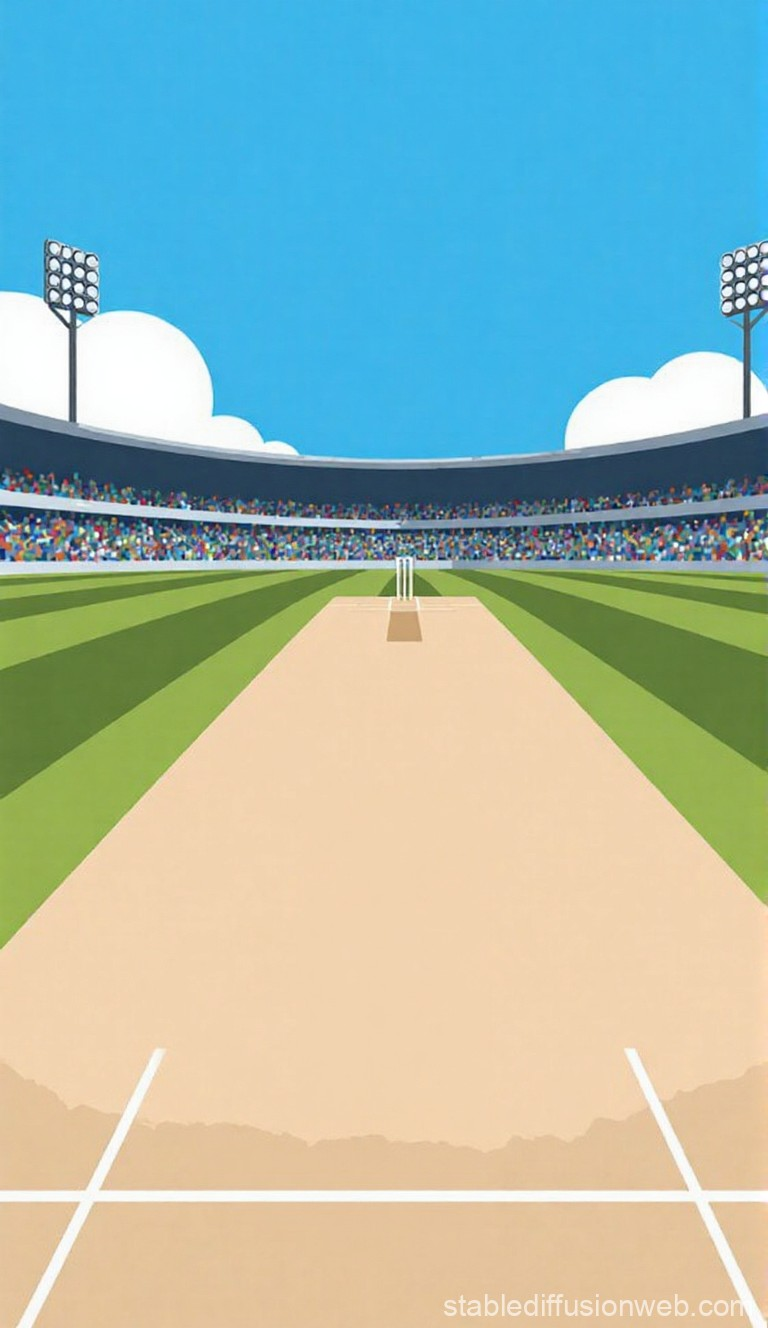
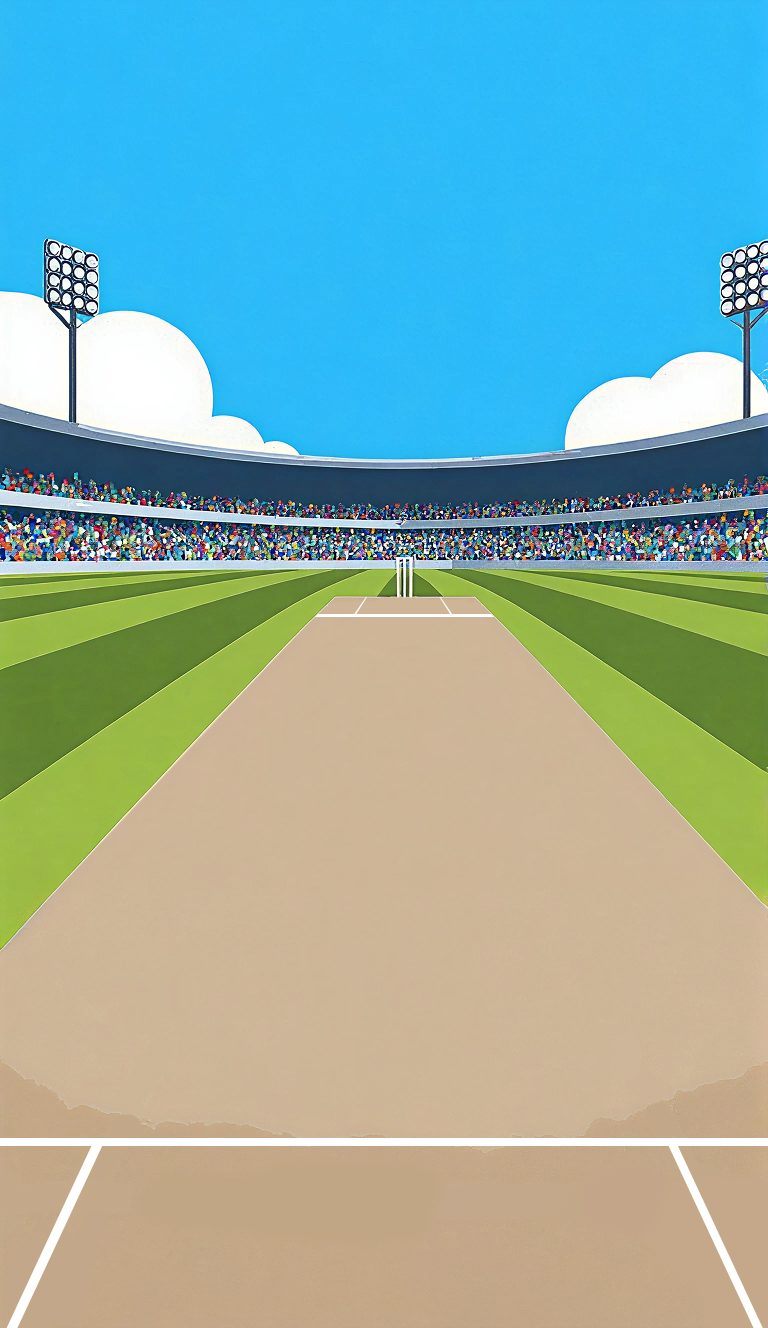
feat: added wicket animation for idle and miss

diff --git a/index.js b/index.js
@@ -26,7 +26,16 @@ class TapCricketScene extends Phaser.Scene {
       frameHeight: 600, // Estimated - adjust based on actual dimensions
     });
 
-    // this.load.image("stumps", "assets/stumps.png"); // stumps image (bottom)
+    // Load wicket sprite sheet
+    this.load.spritesheet("wicket", "assets/wicket.png", {
+      frameWidth: 540, // Half of 540 since we have 2 frames
+      frameHeight: 302,
+    });
+
+    // Debug loading
+    this.load.on("complete", () => {
+      console.log("Wicket sprite sheet loaded:", this.textures.get("wicket"));
+    });
     // this.load.image("bat", "assets/bat.png"); // bat sprite (replaced with spritesheet)
   }
 
@@ -67,7 +76,6 @@ class TapCricketScene extends Phaser.Scene {
     // Add visible batting crease line (simplified)
     try {
       this.creaseGraphics = this.add.graphics();
-      this.creaseGraphics.lineStyle(4, 0xffffff, 0.8);
       this.creaseGraphics.lineBetween(
         this.scale.width * 0.3,
         this.creaseY,
@@ -87,14 +95,55 @@ class TapCricketScene extends Phaser.Scene {
       );
     }
 
-    // Add stumps at bottom (batter's perspective) - temporary rectangle
-    this.stumps = this.add.rectangle(
-      this.scale.width / 2,
-      this.scale.height - 80,
-      40,
-      60,
-      0x8b4513
-    );
+    // Add wicket at bottom (batter's perspective)
+    // Create wicket animations with debug logging
+    try {
+      // Create idle animation
+      const idleAnim = this.anims.create({
+        key: "wicket-idle",
+        frames: this.anims.generateFrameNumbers("wicket", { start: 0, end: 0 }),
+        frameRate: 8,
+        repeat: -1,
+      });
+      console.log("Idle animation created:", idleAnim);
+
+      // Create hit animation
+      const hitAnim = this.anims.create({
+        key: "wicket-hit",
+        frames: this.anims.generateFrameNumbers("wicket", { start: 0, end: 7 }),
+        frameRate: 20,
+        repeat: 0, // Only play once
+      });
+      console.log("Hit animation created:", hitAnim);
+
+      // Log all available animations
+      console.log("All animations:", this.anims.anims.entries);
+    } catch (error) {
+      console.error("Error creating animations:", error);
+    }
+
+    // Add wicket sprite and play animation
+    this.stumps = this.add
+      .sprite(this.scale.width / 2, this.scale.height - 50, "wicket") // Adjusted Y position
+      .setScale(0.6) // Increased scale to make it more visible
+      .setDepth(2) // Set a higher depth to bring it to the front
+      .setOrigin(0.5, 0.7); // Set origin to bottom center of sprite
+
+    // Debug rectangle to show wicket bounds
+
+    console.log("Wicket position:", {
+      x: this.stumps.x,
+      y: this.stumps.y,
+      originX: this.stumps.originX,
+      originY: this.stumps.originY,
+      displayHeight: this.stumps.displayHeight,
+      displayWidth: this.stumps.displayWidth,
+    });
+
+    // For debugging - add a colored rectangle behind the wicket to check its position
+
+    // Start playing the animation
+    this.stumps.play("wicket-idle");
 
     // Add batter sprite with animations or fallback
     this.createBatter();
@@ -478,6 +527,29 @@ class TapCricketScene extends Phaser.Scene {
 
   missedBall(ball) {
     console.log("Ball missed completely");
+
+    // Play wicket hit animation
+    if (this.stumps && this.stumps.active) {
+      console.log("Attempting to play wicket-hit animation");
+
+      try {
+        // Stop any current animation
+        this.stumps.stop();
+
+        // Play hit animation (frames only, no position change)
+        this.stumps.play("wicket-hit");
+        console.log("Current animation:", this.stumps.anims.currentAnim);
+
+        // Handle animation completion
+        this.stumps.once("animationcomplete", () => {
+          console.log("Hit animation complete, returning to idle");
+          this.stumps.play("wicket-idle", true); // Force play idle animation
+        });
+      } catch (error) {
+        console.error("Error playing wicket animation:", error);
+      }
+    }
+
     if (ball && ball.active) {
       ball.destroy();
     }
@@ -942,13 +1014,25 @@ class TapCricketScene extends Phaser.Scene {
       }
     }
 
-    // Update stumps position
+    // Update wicket position and scale
     if (this.stumps && this.stumps.active && this.stumps.scene) {
       this.stumps.setPosition(
         width / 2,
-        isPortrait ? height - 80 : height - 60
+        isPortrait ? height - 50 : height - 40
       );
-      this.stumps.setSize(isPortrait ? 40 : 30, isPortrait ? 60 : 45);
+      this.stumps.setScale(isPortrait ? 0.6 : 0.5);
+
+      // Ensure animation is playing
+      if (!this.stumps.anims.isPlaying) {
+        this.stumps.play("wicket-idle");
+      }
+
+      console.log("Wicket resize:", {
+        x: this.stumps.x,
+        y: this.stumps.y,
+        scale: this.stumps.scale,
+        displayHeight: this.stumps.displayHeight,
+      });
     }
 
     // Update batter position
